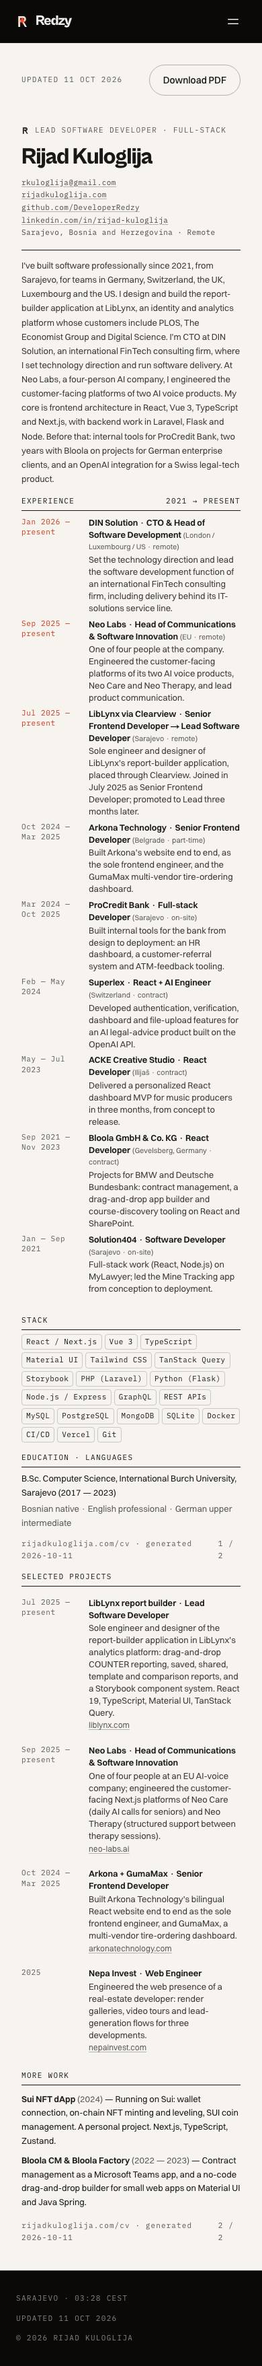
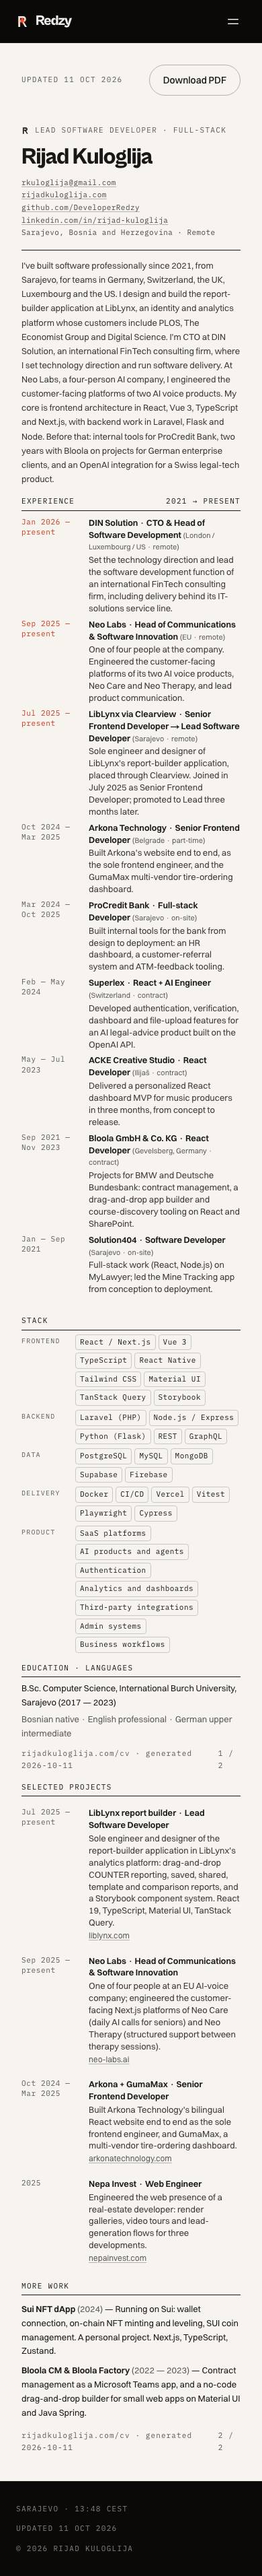
Stack in five groups incl. product areas; Supabase on Neo Labs, Playwright on LibLynx

diff --git a/content/profile.ts b/content/profile.ts
@@ -34,10 +34,11 @@ export const profile: Profile = {
     "Performance and UI engineering",
   ],
   stack: [
-    { group: "Frontend", items: ["React / Next.js", "Vue 3", "TypeScript", "Material UI", "Tailwind CSS", "TanStack Query", "Storybook"] },
-    { group: "Backend", items: ["PHP (Laravel)", "Python (Flask)", "Node.js / Express", "GraphQL", "REST APIs"] },
-    { group: "Data", items: ["MySQL", "PostgreSQL", "MongoDB", "SQLite"] },
-    { group: "Infrastructure", items: ["Docker", "CI/CD", "Vercel", "Git"] },
+    { group: "Frontend", items: ["React / Next.js", "Vue 3", "TypeScript", "React Native", "Tailwind CSS", "Material UI", "TanStack Query", "Storybook"] },
+    { group: "Backend", items: ["Laravel (PHP)", "Node.js / Express", "Python (Flask)", "REST", "GraphQL"] },
+    { group: "Data", items: ["PostgreSQL", "MySQL", "MongoDB", "Supabase", "Firebase"] },
+    { group: "Delivery", items: ["Docker", "CI/CD", "Vercel", "Vitest", "Playwright", "Cypress"] },
+    { group: "Product", items: ["SaaS platforms", "AI products and agents", "Authentication", "Analytics and dashboards", "Third-party integrations", "Admin systems", "Business workflows"] },
   ],
   education: [
     { school: "International Burch University, Sarajevo", short: "International Burch University", degree: "B.Sc. Computer Science", years: "2017 — 2023" },

diff --git a/components/cv/Cv.tsx b/components/cv/Cv.tsx
@@ -56,9 +56,16 @@ export function Cv() {
         <div className="mt-3 grid grid-cols-[1.5fr_1fr] gap-6 max-sm:grid-cols-1 max-sm:gap-0">
           <div className="min-w-0">
             <h2 className={`cv-h ${HEADING}`}>Stack</h2>
-            <ul className="flex flex-wrap gap-1">
-              {profile.stack.flatMap((g) => g.items).map((i) => <li key={i} className="rounded border border-paper-ink/20 px-1.5 py-0.5 font-mono text-[11px] tracking-[0.04em] print:text-[9.5px]">{i}</li>)}
-            </ul>
+            <dl className="space-y-1.5">
+              {profile.stack.map((g) => (
+                <div key={g.group} className="grid grid-cols-[72px_1fr] gap-2 print:grid-cols-[64px_1fr]">
+                  <dt className="pt-0.5 font-mono text-[10px] uppercase tracking-[0.12em] text-paper-ink/70 print:text-[9px]">{g.group}</dt>
+                  <dd className="m-0 flex flex-wrap gap-1">
+                    {g.items.map((i) => <span key={i} className="rounded border border-paper-ink/20 px-1.5 py-0.5 font-mono text-[11px] tracking-[0.04em] print:text-[9.5px]">{i}</span>)}
+                  </dd>
+                </div>
+              ))}
+            </dl>
           </div>
           <div className="min-w-0">
             <h2 className={`cv-h ${HEADING}`}>Education · Languages</h2>

diff --git a/content/work/liblynx.ts b/content/work/liblynx.ts
@@ -9,7 +9,7 @@ export const liblynx: Project = {
   role: "Lead Software Developer",
   roleNote: "Through Clearview · sole engineer and designer · Lead since Oct 2025",
   period: "Jul 2025 — present",
-  stack: ["React 19", "TypeScript", "Vite", "Material UI", "TanStack Query", "Zod", "dnd-kit", "Storybook"],
+  stack: ["React 19", "TypeScript", "Vite", "Material UI", "TanStack Query", "Zod", "dnd-kit", "Storybook", "Playwright"],
   live: { label: "liblynx.com", url: "https://www.liblynx.com/" },
   body: {
     overview:

diff --git a/content/work/neo-labs.ts b/content/work/neo-labs.ts
@@ -9,7 +9,7 @@ export const neoLabs: Project = {
   role: "Head of Communications & Software Innovation",
   roleNote: "One of four people at the company · engineered both customer-facing platforms",
   period: "Sep 2025 — present",
-  stack: ["Next.js", "Tailwind CSS", "Vercel"],
+  stack: ["Next.js", "Tailwind CSS", "Supabase", "Vercel"],
   focus: ["AI voice calls", "Scheduling & reports", "Escalation workflows"],
   live: { label: "neo-labs.ai", url: "https://www.neo-labs.ai/" },
   body: {
